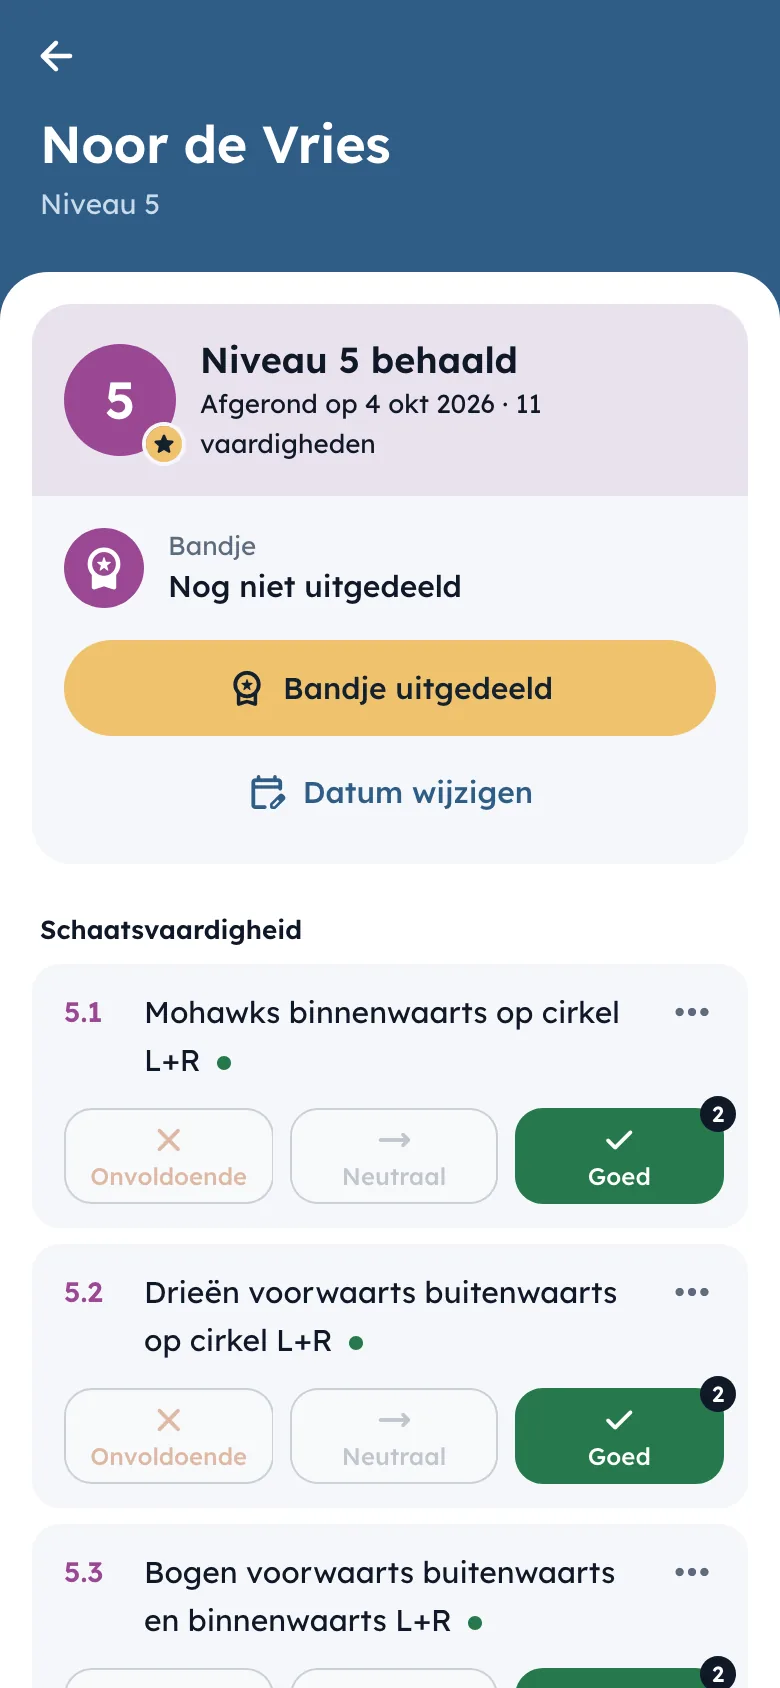
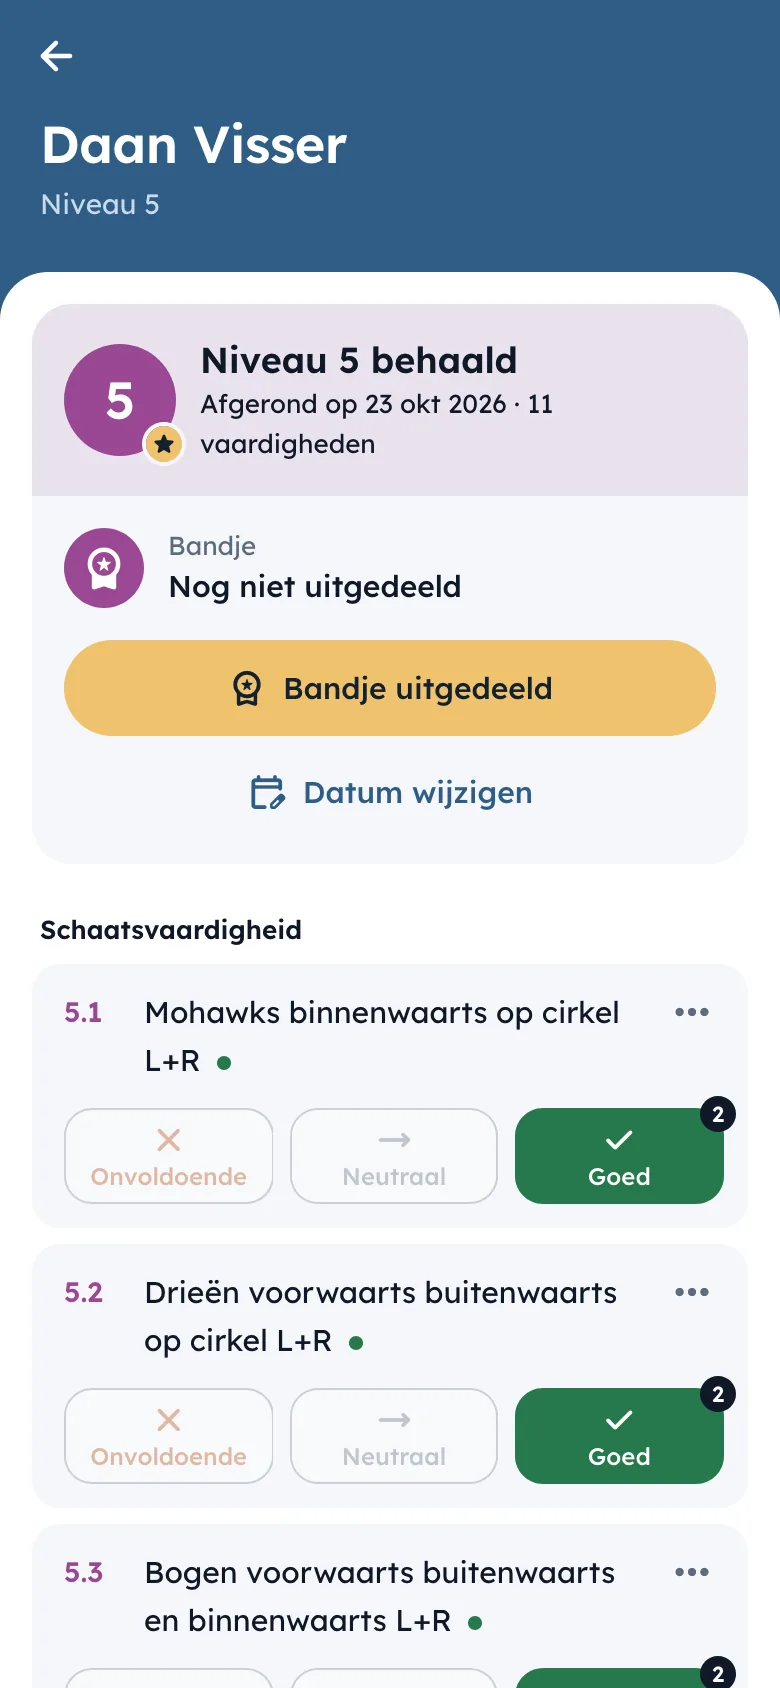
Update with dark mode

diff --git a/index.html b/index.html
@@ -23,7 +23,15 @@
       type="font/woff2"
       crossorigin
     />
-    <link rel="stylesheet" href="styles.css" />
+    <link rel="stylesheet" href="styles.css?v=2" />
+    <script>
+      try {
+        const theme = localStorage.getItem("theme");
+        if (theme === "light" || theme === "dark") {
+          document.documentElement.dataset.theme = theme;
+        }
+      } catch {}
+    </script>
   </head>
   <body>
     <header class="hero">
@@ -32,7 +40,29 @@
           <img src="favicon.svg" alt="" width="32" height="32" />
           <span>Stride</span>
         </a>
-        <a class="nav-link" href="#contact">Contact</a>
+        <div class="nav-actions">
+          <a class="nav-link" href="#contact">Contact</a>
+          <button
+            class="theme-switch"
+            type="button"
+            role="switch"
+            aria-checked="false"
+            aria-label="Donkere modus"
+          >
+            <span class="theme-switch-track" aria-hidden="true">
+              <span class="theme-switch-thumb"></span>
+              <svg class="icon-sun" viewBox="0 0 24 24">
+                <circle cx="12" cy="12" r="4" />
+                <path
+                  d="M12 2v2M12 20v2M4.9 4.9l1.4 1.4M17.7 17.7l1.4 1.4M2 12h2M20 12h2M4.9 19.1l1.4-1.4M17.7 6.3l1.4-1.4"
+                />
+              </svg>
+              <svg class="icon-moon" viewBox="0 0 24 24">
+                <path d="M20 14.5A8 8 0 019.5 4a8 8 0 1010.5 10.5z" />
+              </svg>
+            </span>
+          </button>
+        </div>
       </nav>
 
       <div class="hero-grid wrap">
@@ -52,10 +82,12 @@
         <figure class="phone hero-phone">
           <div class="screen">
             <img
-              src="img/beoordelen.webp"
+              src="img/leerling.webp"
+              data-dark="img/leerling-dark.webp"
+              fetchpriority="high"
               width="390"
               height="844"
-              alt="Beoordelingsscherm in Stride: een vaardigheid van niveau 5 met de hele groep onder elkaar, per leerling knoppen voor onvoldoende, neutraal en goed."
+              alt="Overzicht van een leerling in Stride: niveau 2 tot en met 5 afgerond met datum en beker, niveau 6 onderweg."
             />
           </div>
         </figure>
@@ -67,7 +99,7 @@
         <div class="split">
           <div>
             <p class="overline">Tijdens de les</p>
-            <h2 id="lesson-title">Beoordelen kost één tik</h2>
+            <h2 id="lesson-title">Beoordelen in één tik</h2>
           </div>
           <div class="prose">
             <p>
@@ -94,6 +126,7 @@
               <div class="screen">
                 <img
                   src="img/groepbeoordelen.webp"
+                  data-dark="img/groepbeoordelen-dark.webp"
                   width="390"
                   height="844"
                   loading="lazy"
@@ -110,6 +143,7 @@
               <div class="screen">
                 <img
                   src="img/leerlingniveau.webp"
+                  data-dark="img/leerlingniveau-dark.webp"
                   width="390"
                   height="844"
                   loading="lazy"
@@ -126,6 +160,7 @@
               <div class="screen">
                 <img
                   src="img/home.webp"
+                  data-dark="img/home-dark.webp"
                   width="390"
                   height="844"
                   loading="lazy"
@@ -169,23 +204,23 @@
               <div class="phone">
                 <div class="screen">
                   <img
-                    src="img/leerling.webp"
+                    src="img/groep.webp"
+                    data-dark="img/groep-dark.webp"
                     width="390"
                     height="844"
                     loading="lazy"
-                    alt="Overzicht van een leerling: groepen en per niveau wanneer het is afgerond."
+                    alt="Een groep met per niveau hoeveel leerlingen het hebben afgerond."
                   />
                 </div>
               </div>
-              <figcaption>
-                Per leerling zie je welke niveaus af zijn, en wanneer.
-              </figcaption>
+              <figcaption>Per groep zie je hoe ver iedereen is.</figcaption>
             </figure>
             <figure>
               <div class="phone">
                 <div class="screen">
                   <img
                     src="img/bandje.webp"
+                    data-dark="img/bandje-dark.webp"
                     width="390"
                     height="844"
                     loading="lazy"
@@ -247,5 +282,35 @@
         <a href="mailto:jelmer@duzign.nl">jelmer@duzign.nl</a>
       </div>
     </footer>
+    <script>
+      (() => {
+        const root = document.documentElement;
+        const button = document.querySelector(".theme-switch");
+        const systemDark = matchMedia("(prefers-color-scheme: dark)");
+        const isDark = () =>
+          root.dataset.theme
+            ? root.dataset.theme === "dark"
+            : systemDark.matches;
+
+        function render() {
+          const dark = isDark();
+          button.setAttribute("aria-checked", String(dark));
+          document.querySelectorAll("img[data-dark]").forEach((img) => {
+            img.dataset.light ??= img.getAttribute("src");
+            img.src = dark ? img.dataset.dark : img.dataset.light;
+          });
+        }
+
+        button.addEventListener("click", () => {
+          root.dataset.theme = isDark() ? "light" : "dark";
+          try {
+            localStorage.setItem("theme", root.dataset.theme);
+          } catch {}
+          render();
+        });
+        systemDark.addEventListener("change", render);
+        render();
+      })();
+    </script>
   </body>
 </html>

diff --git a/styles.css b/styles.css
@@ -1,11 +1,11 @@
 /* Colours, radii and type follow the Stride design system (tokens.json in the app repo). */
 
 @font-face {
-  font-family: 'Lexend';
+  font-family: "Lexend";
   font-style: normal;
   font-weight: 400 600;
   font-display: swap;
-  src: url('fonts/lexend-latin.woff2') format('woff2');
+  src: url("fonts/lexend-latin.woff2") format("woff2");
 }
 
 :root {
@@ -38,6 +38,7 @@
   --level-5: #9a4893;
   --level-7: #4ea88f;
   --on-level-dark: #14212e;
+  --phone-ring: transparent;
   --radius-sm: 8px;
   --radius-md: 14px;
   --radius-lg: 20px;
@@ -46,10 +47,11 @@
 }
 
 @media (prefers-color-scheme: dark) {
-  :root {
+  :root:not([data-theme="light"]) {
     --surface: #0e151d;
     --surface-raised: #17212c;
     --header: #1b3550;
+    --phone-ring: rgb(255 255 255 / 0.14);
     --on-header-muted: #b9cde0;
     --ink: #eef2f6;
     --ink-muted: #a3b1c0;
@@ -71,6 +73,36 @@
   }
 }
 
+:root[data-theme="dark"] {
+  --surface: #0e151d;
+  --surface-raised: #17212c;
+  --header: #1b3550;
+  --phone-ring: rgb(255 255 255 / 0.14);
+  --on-header-muted: #b9cde0;
+  --ink: #eef2f6;
+  --ink-muted: #a3b1c0;
+  --line-strong: #6b7b8b;
+  --primary: #8fb6da;
+  --on-primary: #0e151d;
+  --primary-strong: #b5cfe8;
+  --primary-soft: #1e3247;
+  --accent-strong: #f0c26e;
+  --status-failed: #f79a6a;
+  --status-neutral: #8e9aa7;
+  --status-passed: #6fcf97;
+  --on-status: #0f1720;
+  --focus: #b5cfe8;
+  --inverse-surface: #eef2f6;
+  --on-inverse: #17212c;
+  --inverse-action: #2f4a61;
+  --level-5: #b25dab;
+  color-scheme: dark;
+}
+
+:root[data-theme="light"] {
+  color-scheme: light;
+}
+
 *,
 *::before,
 *::after {
@@ -83,7 +115,7 @@ html {
 
 body {
   margin: 0;
-  font-family: 'Lexend', system-ui, sans-serif;
+  font-family: "Lexend", system-ui, sans-serif;
   font-weight: 400;
   font-size: 16px;
   line-height: 1.55;
@@ -239,6 +271,83 @@ a:focus-visible,
   text-decoration: underline;
 }
 
+.nav-actions {
+  display: flex;
+  align-items: center;
+  gap: 16px;
+}
+
+/* Theme switch: a pill with a sliding thumb under the active icon (sun = light, moon = dark). */
+.theme-switch {
+  display: inline-grid;
+  place-items: center;
+  min-width: 48px;
+  min-height: 48px;
+  padding: 0;
+  border: 0;
+  background: transparent;
+  cursor: pointer;
+}
+
+.theme-switch:focus-visible {
+  outline: none;
+}
+
+.theme-switch-track {
+  position: relative;
+  display: flex;
+  align-items: center;
+  justify-content: space-between;
+  width: 68px;
+  height: 36px;
+  padding: 0 9px;
+  border-radius: 999px;
+  background: rgb(255 255 255 / 0.16);
+  transition: background-color 120ms;
+}
+
+.theme-switch:hover .theme-switch-track {
+  background: rgb(255 255 255 / 0.24);
+}
+
+.theme-switch:focus-visible .theme-switch-track {
+  outline: 2px solid var(--on-header);
+  outline-offset: 2px;
+}
+
+.theme-switch-thumb {
+  position: absolute;
+  top: 4px;
+  left: 4px;
+  width: 28px;
+  height: 28px;
+  border-radius: 999px;
+  background: var(--on-header);
+  box-shadow: 0 1px 3px rgb(0 0 0 / 0.25);
+  transition: transform 160ms ease;
+}
+
+.theme-switch[aria-checked="true"] .theme-switch-thumb {
+  transform: translateX(32px);
+}
+
+.theme-switch-track svg {
+  position: relative;
+  width: 18px;
+  height: 18px;
+  fill: none;
+  stroke: var(--on-header-muted);
+  stroke-width: 2;
+  stroke-linecap: round;
+  stroke-linejoin: round;
+  transition: stroke 160ms;
+}
+
+.theme-switch[aria-checked="false"] .icon-sun,
+.theme-switch[aria-checked="true"] .icon-moon {
+  stroke: var(--header);
+}
+
 .hero-grid {
   display: grid;
   gap: 48px;
@@ -274,7 +383,9 @@ a:focus-visible,
   border-radius: 40px;
   padding: 7px;
   background: #0b1219;
-  box-shadow: 0 20px 50px rgb(0 0 0 / 0.28);
+  box-shadow:
+    0 0 0 1px var(--phone-ring),
+    0 20px 50px rgb(0 0 0 / 0.28);
 }
 
 /* The status bar takes the app header colour, so every screenshot (which starts with the header) runs on seamlessly. */
@@ -283,11 +394,11 @@ a:focus-visible,
   overflow: hidden;
   border-radius: 33px;
   padding-top: 30px;
-  background: #2f5d86;
+  background: var(--header);
 }
 
 .screen::before {
-  content: '';
+  content: "";
   position: absolute;
   top: 9px;
   left: 50%;
@@ -446,7 +557,9 @@ a:focus-visible,
     scroll-behavior: auto;
   }
 
-  .btn {
+  .btn,
+  .theme-switch-thumb,
+  .theme-switch-track svg {
     transition: none;
   }
 }

diff --git a/README.md b/README.md
@@ -8,4 +8,4 @@ Public marketing site for [Stride](https://stride.duzign.nl), served by GitHub P
 
 Preview locally: `python3 -m http.server 8000`, then open http://localhost:8000.
 
-Screenshots in `img/` come from a local Stride run against an empty database with fictional pupils, groups and trainer (never production data).
+Screenshots in `img/` come from a local Stride run against an empty database with fictional pupils, groups and trainer (never production data), in light (`name.webp`) and dark (`name-dark.webp`); the theme toggle swaps them.
